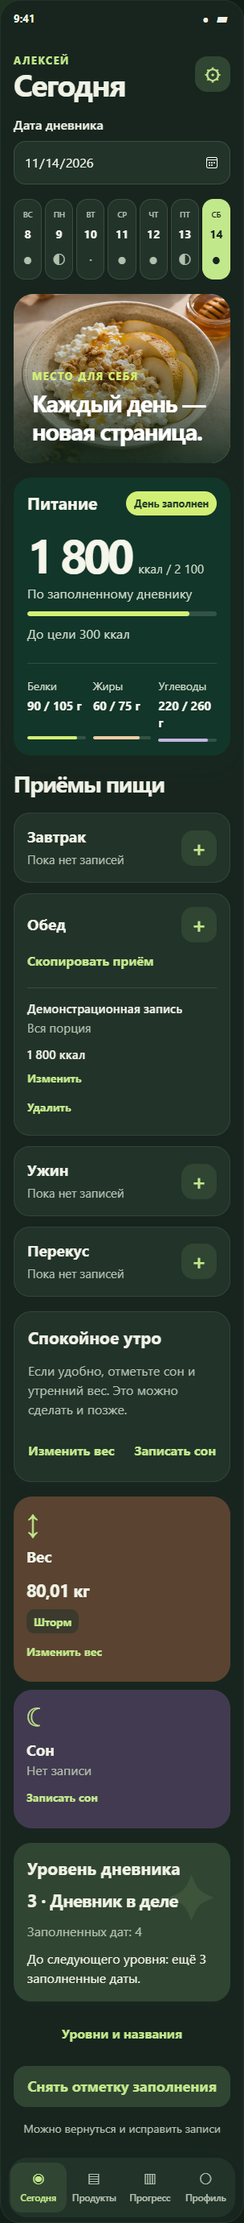
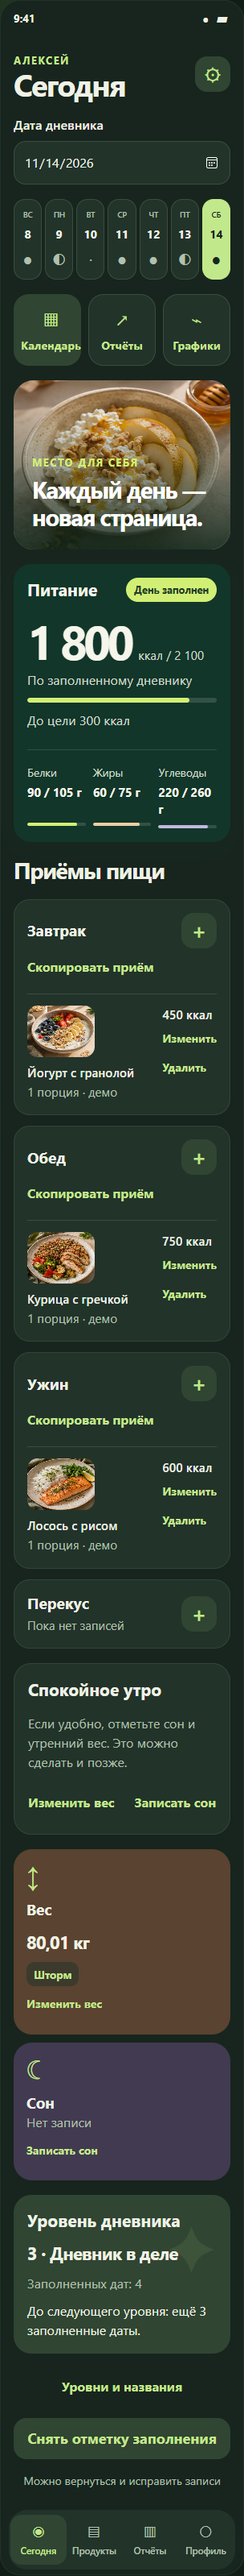
design: expand demo food library and meal photography

diff --git a/docs/prototype/index.html b/docs/prototype/index.html
@@ -107,7 +107,7 @@ function render(){
  if(state.screen==='weight')html=weightForm();
  if(state.screen==='sleep')html=sleepForm();
  if(state.screen==='search')html=searchView();
- if(state.screen==='portion'){const p=selected();html=`<div class="screen">${header('search','Порция')}${context()}<div class="portion-title"><div class="food-icon" aria-hidden="true">${p.icon}</div><h2>${esc(p.name)}</h2><p class="muted small">${fmt(p.values[0])} ккал на ${p.base} ${esc(p.unit)}</p></div><div class="quantity-row">${field('quantity','Сколько съели',state.quantity,'inputmode="decimal" autocomplete="off"')}<span class="quantity-unit">${esc(p.unit)}</span></div><p class="error" id="portion-error" aria-live="polite"></p><div class="card soft"><p class="small muted" style="margin-bottom:16px">В вашей порции</p><div id="portion-values">${portionNutrition()}</div></div><div class="spacer"></div><button class="button full" data-action="save-portion" id="portion-save" ${quantityValid()?'':'disabled'}>Добавить в дневник</button></div>`;}
+ if(state.screen==='portion'){const p=selected();html=`<div class="screen">${header('search','Порция')}${context()}<div class="portion-title">${Number.isInteger(p.photo)?foodPhoto(p.photo,'food-icon','Фото-иллюстрация еды'):`<div class="food-icon" aria-hidden="true">${p.icon}</div>`}<h2>${esc(p.name)}</h2><p class="muted small">${fmt(p.values[0])} ккал на ${p.base} ${esc(p.unit)}</p></div><div class="quantity-row">${field('quantity','Сколько съели',state.quantity,'inputmode="decimal" autocomplete="off"')}<span class="quantity-unit">${esc(p.unit)}</span></div><p class="error" id="portion-error" aria-live="polite"></p><div class="card soft"><p class="small muted" style="margin-bottom:16px">В вашей порции</p><div id="portion-values">${portionNutrition()}</div></div><div class="spacer"></div><button class="button full" data-action="save-portion" id="portion-save" ${quantityValid()?'':'disabled'}>Добавить в дневник</button></div>`;}
  if(state.screen==='quick'||state.screen==='new'){const isNew=state.screen==='new',prefix=isNew?'new':'quick';html=`<div class="screen">${header('cancel-food',isNew?'Новый продукт':'Быстрый ввод',isNew?'Перенесите значения с упаковки.':'Укажите КБЖУ всей съеденной порции.')}${context()}${field(`${prefix}-name`,isNew?'Название':'Название, необязательно',isNew?state.newName:state.quickName,'autocomplete="off" maxlength="80"')}${isNew?`<label class="field" for="new-unit">Пищевая ценность<select id="new-unit"><option value="г" ${state.newUnit==='г'?'selected':''}>На 100 г</option><option value="мл" ${state.newUnit==='мл'?'selected':''}>На 100 мл</option><option value="шт." ${state.newUnit==='шт.'?'selected':''}>На 1 штуку</option></select></label>`:''}${nutrientFields(prefix,isNew?state.newValues:state.quick)}<p class="small muted">Заполните все четыре значения. Неизвестное значение не равно нулю.</p><p class="error" id="food-error" aria-live="polite"></p><div class="spacer"></div><button class="button full" id="food-save" data-action="${isNew?'save-product':'save-quick'}" ${foodValid()?'':'disabled'}>${isNew?'Сохранить продукт':'Добавить в дневник'}</button>${isNew?'<p class="footer-note">Затем можно выбрать порцию для дневника</p>':''}</div>`;}
  if(['account','profile-edit','meal-settings'].includes(state.screen))html=settingsView();
  if(['library','catalog-card','catalog-edit'].includes(state.screen))html=catalogView();
@@ -335,7 +335,9 @@ function loadFullExample(){
  loadProgressExample();state.name='Алексей';state.direction='Поддержание';state.profileValues=['30','175','80'];state.products[0].favorite=true;
  const curd={id:state.nextId++,kind:'product',name:'Творог — демо',unit:'г',base:100,values:[80,5,2,12],icon:'◒'};state.products.push(curd);
  const ingredients=[{sourceId:1,snapshot:productSnapshot(state.products[0]),quantity:200},{sourceId:curd.id,snapshot:productSnapshot(curd),quantity:100}];
- const recipe={id:state.nextId++,kind:'recipe',name:'Запеканка — демо',unit:'г',base:100,values:[152,10,4,19.2],favorite:true,icon:'♧',recipe:{yield:250,ingredients}};state.products.push(recipe);state.days['2026-11-07']={complete:false,entries:[state.products[0],recipe].map((product,i)=>{const quantity=i?50:80;return {id:state.nextId++,kind:'portion',sourceId:product.id,name:product.name,amount:fmt(quantity)+' '+product.unit,meal:0,quantity,snapshot:productSnapshot(product),values:portionValues(productSnapshot(product),quantity)};})};state.recents=[recipe.id,1];go('home');
+ const recipe={id:state.nextId++,kind:'recipe',name:'Запеканка — демо',unit:'г',base:100,values:[152,10,4,19.2],favorite:true,icon:'♧',recipe:{yield:250,ingredients}};state.products.push(recipe);state.days['2026-11-07']={complete:false,entries:[state.products[0],recipe].map((product,i)=>{const quantity=i?50:80;return {id:state.nextId++,kind:'portion',sourceId:product.id,name:product.name,amount:fmt(quantity)+' '+product.unit,meal:0,quantity,snapshot:productSnapshot(product),values:portionValues(productSnapshot(product),quantity)};})};state.recents=[recipe.id,1];
+ state.days[TODAY].entries=[['Йогурт с гранолой',0,[450,25,15,55]],['Курица с гречкой',1,[750,40,25,90]],['Лосось с рисом',2,[600,25,20,75]]].map(([name,meal,values])=>({id:state.nextId++,kind:'portion',name,meal,quantity:1,amount:'1 порция · демо',values:[...values],snapshot:{name,base:1,unit:'порция',values:[...values],photo:meal}}));
+ go('home');
 }
 function dayPrompt(){
  if(state.date!==TODAY)return '';
@@ -374,7 +376,7 @@ function targetAction(a,b){
  return false;
 }
 
-function searchView(){return `<div class="screen">${header(state.entryReplacement?'entry-replace-cancel':'home',state.entryReplacement?'Заменить продукт':'Добавить еду')}${context()}${state.entryReplacement?'<p class="small muted">Новая база сначала появится в черновике. История изменится после сохранения.</p>':`<label class="field">Приём пищи<select id="meal">${mealOptions(state.meal)}</select></label>`}<label class="field">Поиск<input id="search" value="${esc(state.search)}" placeholder="Найти свой продукт"></label>${catalogTabs()}<div class="product-list" id="results">${productResults()}</div>${state.entryReplacement?'':`<div class="stack"><button class="button secondary" data-action="new">Создать продукт</button><button class="button secondary" data-action="recipe-new">Создать рецепт</button><button class="button plain" data-action="quick">Быстрый ввод КБЖУ</button></div>`}</div>`;}
+function searchView(){return `<div class="screen">${header(state.entryReplacement?'entry-replace-cancel':'home',state.entryReplacement?'Заменить продукт':'Добавить еду')}${context()}${state.entryReplacement?'<p class="small muted">Новая база сначала появится в черновике. История изменится после сохранения.</p>':`<label class="field">Приём пищи<select id="meal">${mealOptions(state.meal)}</select></label>`}<label class="field">Поиск<input id="search" value="${esc(state.search)}" placeholder="Найти свой продукт"></label>${catalogTabs()}${foodCategories()}<p class="small muted">Демо-каталог · условные значения для просмотра. Фото — иллюстрации; для своего продукта сверяйте упаковку.</p><div class="product-list" id="results">${productResults()}</div>${state.entryReplacement?'':`<div class="stack"><button class="button secondary" data-action="new">Создать продукт</button><button class="button secondary" data-action="recipe-new">Создать рецепт</button><button class="button plain" data-action="quick">Быстрый ввод КБЖУ</button></div>`}</div>`;}
 function entryValues(d=state.entryDraft){return d.kind==='portion'?portionValues(d.snapshot,num(d.quantity)):valid(d.raw)?values(d.raw):null;}
 function entryView(){
  const d=state.entryDraft,archived=state.archivedMeals.includes(d.meal);
@@ -477,7 +479,7 @@ function recipeAction(action,button){
  return false;
 }
 
-function productSnapshot(product){return structuredClone({name:product.name,base:product.base,unit:product.unit,values:product.values});}
+function productSnapshot(product){return structuredClone({name:product.name,base:product.base,unit:product.unit,values:product.values,photo:product.photo??null});}
 function portionValues(snapshot,quantity){
  if(!snapshot||!Number.isFinite(quantity)||quantity<=0||!Number.isFinite(snapshot.base)||snapshot.base<=0)return null;
  const result=snapshot.values.map(v=>v*(quantity/snapshot.base));return result.every(v=>Number.isFinite(v)&&v>=0)?result:null;
@@ -485,11 +487,13 @@ function portionValues(snapshot,quantity){
 function catalogTabs(){return `<div class="progress-tabs" role="group" aria-label="Фильтр справочника">${[['all','Все'],['favorite','Избранное'],['recent','Недавние'],['recipes','Рецепты']].map(([id,label])=>`<button class="button ${state.catalogFilter===id?'':'secondary'}" data-action="catalog-filter" data-value="${id}" aria-pressed="${state.catalogFilter===id}">${label}</button>`).join('')}</div>`;}
 function catalogResults(){
  let list=state.products.filter(p=>p.name.toLocaleLowerCase('ru').includes(state.search.toLocaleLowerCase('ru')));
+ if(state.foodCategory&&state.foodCategory!=='Все категории')list=list.filter(p=>(p.category||'Свои')===state.foodCategory);
  if(state.catalogFilter==='favorite')list=list.filter(p=>p.favorite);
  if(state.catalogFilter==='recipes')list=list.filter(p=>p.kind==='recipe');
  if(state.catalogFilter==='recent')list=state.recents.map(id=>list.find(p=>p.id===id)).filter(Boolean);
  if(!list.length)return '<p class="empty-state small muted">Здесь пока пусто. Измените поиск или фильтр, создайте свой продукт.</p>';
- return list.map(p=>`<div class="catalog-row"><button class="product" data-action="${state.screen==='library'?'catalog-open':'select'}" data-id="${p.id}"><span class="food-icon" aria-hidden="true">${p.kind==='recipe'?'♧':p.icon}</span><span><strong>${esc(p.name)}</strong><small>${fmt(p.values[0])} ккал · на ${p.base} ${esc(p.unit)}${p.kind==='recipe'?' · Рецепт':''}</small></span><span aria-hidden="true">›</span></button><button class="link" data-action="catalog-favorite" data-id="${p.id}" aria-pressed="${!!p.favorite}" aria-label="Избранное: ${esc(p.name)}">${p.favorite?'★ В избранном':'☆ В избранное'}</button></div>`).join('');
+ const limit=state.catalogLimit||12;
+ return '<p class="small muted">Найдено: '+list.length+'</p>'+list.slice(0,limit).map(p=>`<div class="catalog-row"><button class="product" data-action="${state.screen==='library'?'catalog-open':'select'}" data-id="${p.id}">${Number.isInteger(p.photo)?foodPhoto(p.photo,'food-icon','Фото-иллюстрация категории '+(p.category||'еда')):`<span class="food-icon" aria-hidden="true">${p.kind==='recipe'?'♧':p.icon}</span>`}<span class="grow"><strong>${esc(p.name)}</strong><small>${fmt(p.values[0])} ккал · на ${p.base} ${esc(p.unit)}${p.kind==='recipe'?' · Рецепт':''}</small></span><span aria-hidden="true">›</span></button><button class="link" data-action="catalog-favorite" data-id="${p.id}" aria-pressed="${!!p.favorite}" aria-label="Избранное: ${esc(p.name)}">${p.favorite?'★ В избранном':'☆ В избранное'}</button></div>`).join('')+(list.length>limit?'<button class="button secondary full" data-action="catalog-more">Показать ещё · '+(list.length-limit)+'</button>':'');
 }
 function catalogError(){
  const d=state.catalogDraft;
@@ -504,10 +508,10 @@ function openCatalogEditor(id=null){
  state.catalogInitial=JSON.stringify(state.catalogDraft);go('catalog-edit');
 }
 function catalogView(){
- if(state.screen==='library')return `<div class="screen">${header('home','Продукты')}<label class="field">Поиск<input id="search" value="${esc(state.search)}" placeholder="Название продукта или блюда"></label>${catalogTabs()}<div id="results" class="product-list">${catalogResults()}</div><button class="button" data-action="catalog-new">Создать продукт</button><button class="button secondary" data-action="recipe-new">Создать рецепт</button><p class="small muted">Свой справочник. Создание продукта не добавляет еду в дневник.</p></div>`;
+ if(state.screen==='library')return `<div class="screen">${header('home','Продукты')}<label class="field">Поиск<input id="search" value="${esc(state.search)}" placeholder="Название продукта или блюда"></label>${catalogTabs()}${foodCategories()}<p class="small muted">Демо-каталог · условные значения для просмотра. Фото — иллюстрации; для своего продукта сверяйте упаковку.</p><div id="results" class="product-list">${catalogResults()}</div><button class="button" data-action="catalog-new">Создать продукт</button><button class="button secondary" data-action="recipe-new">Создать рецепт</button><p class="small muted">Свой справочник. Создание продукта не добавляет еду в дневник.</p></div>`;
  if(state.screen==='catalog-card'){
   const p=state.products.find(p=>p.id===state.catalogId);
-  return `<div class="screen">${header('library',esc(p.name))}<p class="small muted">На ${p.base} ${esc(p.unit)}</p>${nutrition(p.values)}${p.kind==='recipe'?recipeDescription(p):''}<button class="button" data-action="catalog-use" data-id="${p.id}">Добавить порцию в дневник</button><p class="small muted">${dateLabel(state.date)} · ${esc(meals[state.meal])}. Приём можно изменить на экране выбора еды.</p><button class="button secondary" data-action="catalog-edit" data-id="${p.id}">${p.kind==='recipe'?'Изменить рецепт':'Изменить продукт'}</button><button class="button secondary" data-action="catalog-favorite" data-id="${p.id}" aria-pressed="${!!p.favorite}">${p.favorite?'Убрать из избранного':'В избранное'}</button><button class="button danger" data-action="catalog-delete" data-id="${p.id}">${p.kind==='recipe'?'Удалить рецепт':'Удалить продукт'}</button><p class="small muted">Изменение и удаление не меняют уже записанные порции.</p></div>`;
+  return `<div class="screen">${header('library',esc(p.name))}${Number.isInteger(p.photo)?foodPhoto(p.photo,'catalog-cover','Фото-иллюстрация, не фотография конкретного продукта'):''}<p class="small muted">На ${p.base} ${esc(p.unit)}</p>${nutrition(p.values)}${p.kind==='recipe'?recipeDescription(p):''}<button class="button" data-action="catalog-use" data-id="${p.id}">Добавить порцию в дневник</button><p class="small muted">${dateLabel(state.date)} · ${esc(meals[state.meal])}. Приём можно изменить на экране выбора еды.</p><button class="button secondary" data-action="catalog-edit" data-id="${p.id}">${p.kind==='recipe'?'Изменить рецепт':'Изменить продукт'}</button><button class="button secondary" data-action="catalog-favorite" data-id="${p.id}" aria-pressed="${!!p.favorite}">${p.favorite?'Убрать из избранного':'В избранное'}</button><button class="button danger" data-action="catalog-delete" data-id="${p.id}">${p.kind==='recipe'?'Удалить рецепт':'Удалить продукт'}</button><p class="small muted">Изменение и удаление не меняют уже записанные порции.</p></div>`;
  }
  const d=state.catalogDraft;
  return `<div class="screen">${header('catalog-cancel',d.id===null?'Новый продукт':'Изменить продукт')}${field('catalog-name','Название',d.name,'maxlength="80"')}<label class="field">База пищевой ценности<select id="catalog-unit"><option value="г" ${d.unit==='г'?'selected':''}>На 100 г</option><option value="мл" ${d.unit==='мл'?'selected':''}>На 100 мл</option><option value="portion" ${d.unit==='portion'?'selected':''}>На одну именованную порцию</option></select></label><div id="catalog-portion-wrap" ${d.unit==='portion'?'':'class="hidden"'}>${field('catalog-portion','Название одной порции',d.portion,'maxlength="30" placeholder="Например, штука"')}</div>${nutrientFields('catalog',d.values)}<p class="error" id="catalog-error" role="alert"></p><p class="small muted">Неизвестное значение не равно нулю. Изменения применяются к новым порциям; история сохраняется.</p><button class="button" id="catalog-save" data-action="catalog-save" ${catalogError()?'disabled':''}>Сохранить продукт</button></div>`;
@@ -518,8 +522,8 @@ function catalogInput(id,value){
  document.getElementById('catalog-portion-wrap').classList.toggle('hidden',d.unit!=='portion');document.getElementById('catalog-error').textContent=catalogError();document.getElementById('catalog-save').disabled=!!catalogError();return true;
 }
 function catalogAction(action,button){
- if(action==='library'){state.entryReplacement=false;state.search='';state.catalogFilter='all';go('library');return true;}
- if(action==='catalog-filter'){state.catalogFilter=button.dataset.value;render();return true;}
+ if(action==='library'){state.entryReplacement=false;state.search='';state.catalogFilter='all';state.foodCategory='Все категории';state.catalogLimit=12;go('library');return true;}
+ if(action==='catalog-filter'){state.catalogLimit=12;state.catalogFilter=button.dataset.value;render();return true;}
  if(action==='catalog-open'){state.catalogId=Number(button.dataset.id);go('catalog-card');return true;}
  if(action==='catalog-favorite'){const p=state.products.find(p=>p.id===Number(button.dataset.id));p.favorite=!p.favorite;render();return true;}
  if(action==='new'||action==='catalog-new'){state.catalogReturn=state.screen==='search'?'search':'library';openCatalogEditor();return true;}
@@ -529,7 +533,7 @@ function catalogAction(action,button){
  }
  if(action==='catalog-save'&&state.screen==='catalog-edit'){
   if(catalogError())return true;const d=state.catalogDraft,old=state.products.find(p=>p.id===d.id);
-  const p={id:d.id??state.nextId++,kind:'product',name:d.name.trim(),unit:d.unit==='portion'?d.portion.trim():d.unit,base:d.unit==='portion'?1:100,values:values(d.values),favorite:old?.favorite||false,icon:'◒'};
+  const p={id:d.id??state.nextId++,kind:'product',name:d.name.trim(),unit:d.unit==='portion'?d.portion.trim():d.unit,base:d.unit==='portion'?1:100,values:values(d.values),favorite:old?.favorite||false,category:old?.category||'Свои',photo:old?.photo??null,icon:'◒'};
   if(old)state.products[state.products.indexOf(old)]=p;else state.products.push(p);
   state.catalogId=p.id;if(state.catalogReturn==='search'){state.selected=p.id;state.quantity=String(p.base);go('portion');}else go('catalog-card');return true;
  }
@@ -929,7 +933,7 @@ function foodValid(){return state.screen==='new'?state.newName.trim().length>0&&
 function productResults(){return catalogResults();}
 function nutrition(v){return `<div class="nutrition">${['ккал','белки, г','жиры, г','углев., г'].map((n,i)=>`<div><strong>${v?fmt(v[i]):'—'}</strong><small>${n}</small></div>`).join('')}</div>`;}
 function portionNutrition(){const p=selected();return nutrition(p?portionValues(productSnapshot(p),num(state.quantity)):null);}
-function home(){normalizeActiveMeal();const d=day(),t=total(),g=target(),has=d.entries.length>0||d.complete,status=d.complete?'День заполнен':d.entries.length?'Заполнен частично':'Нет записей';return `<div class="screen home"><div class="row"><div><span class="eyebrow">${state.name?esc(state.name):'Ваш дневник'}</span><h1 tabindex="-1">${state.date===TODAY?'Сегодня':state.date===YESTERDAY?'Вчера':'Дневник'}</h1></div><button class="icon-button" data-action="edit-goal" aria-label="Настроить цель">⚙</button></div><label class="field" for="diary-date">Дата дневника<input type="date" id="diary-date" value="${state.date}" min="${MIN_DATE}" max="${TODAY}" aria-describedby="diary-date-error"></label><p class="error" id="diary-date-error" role="alert"></p>${dayStrip()}${homeShortcuts()}${homeHero()}${state.message?`<div class="toast" role="status">${esc(state.message)}</div>`:''}<section class="card"><div class="title-row"><h3>Питание</h3><span class="pill ${d.complete?'complete':''}">${status}</span></div><div class="calories"><strong>${has?fmt(t[0]):'—'}</strong><span>ккал${g?' / '+fmt(g.values[0]):''}</span></div><p class="small muted">${!has?'Добавьте первую запись':d.complete?'По заполненному дневнику':'По внесённым записям'}</p>${g&&has?`<div class="track" role="progressbar" aria-label="Калории относительно цели" aria-valuemin="0" aria-valuemax="100" aria-valuenow="${Math.min(100,Math.round(t[0]/g.values[0]*100))}"><div class="fill" style="width:${Math.min(100,t[0]/g.values[0]*100)}%"></div></div><p class="small muted" style="margin-top:10px">${t[0]>g.values[0]?'Выше цели на '+fmt(t[0]-g.values[0]):'До цели '+fmt(g.values[0]-t[0])} ккал</p>`:''}<div class="macros">${['Белки','Жиры','Углеводы'].map((n,i)=>`<div class="macro"><div class="caption">${n}</div><div class="value">${has?fmt(t[i+1]):'—'}${g?' / '+fmt(g.values[i+1]):''} г</div>${g&&has&&g.values[i+1]>0?`<div class="track"><div class="fill" style="width:${Math.min(100,t[i+1]/g.values[i+1]*100)}%"></div></div>`:''}</div>`).join('')}</div>${!g?'<div class="row wrap" style="margin-top:16px"><span class="small muted">Цель не задана</span><button class="link" data-action="edit-goal">Настроить цель</button></div>':''}</section><section><div class="row" style="margin-bottom:20px"><h2>Приёмы пищи</h2></div>${state.mealOrder.filter(i=>!state.archivedMeals.includes(i)||d.entries.some(e=>e.meal===i)).map(i=>`<div class="meal"><div class="row"><div><h3 class="meal-title">${esc(meals[i])}</h3>${state.archivedMeals.includes(i)?'<p class="small muted">В архиве</p>':''}${!d.entries.some(e=>e.meal===i)?'<p class="empty">Пока нет записей</p>':''}</div>${state.archivedMeals.includes(i)?'':`<button class="icon-button" data-action="add" data-meal="${i}" aria-label="Добавить: ${esc(meals[i])}">＋</button>`}</div>${d.entries.some(e=>e.meal===i)?`<button class="link" data-action="copy-meal" data-meal="${i}">Скопировать приём</button>`:''}${d.entries.filter(e=>e.meal===i).map(e=>`<div class="meal-item"><div class="entry-name">${esc(e.name)}<div class="muted">${esc(e.amount)}</div></div><div style="text-align:right;flex-shrink:0">${fmt(e.values[0])} ккал<br><button class="link" data-action="edit-entry" data-id="${e.id}" aria-label="Изменить: ${esc(e.name)}">Изменить</button><br><button class="link" data-action="delete" data-id="${e.id}" aria-label="Удалить: ${esc(e.name)}">Удалить</button></div></div>`).join('')}</div>`).join('')}</section>${dayPrompt()}<div class="measurements"><section class="card"><div class="measurement-icon" aria-hidden="true">↕</div><h3>Вес</h3>${d.weightCents==null?'<p class="small muted">Нет записи</p>':`<p class="measurement-value">${weightText(d.weightCents)} кг</p>${measurementBadge('weight',d.weightCents)}`}<button class="link" data-action="weight">${d.weightCents==null?'Записать вес':'Изменить вес'}</button></section><section class="card"><div class="measurement-icon" aria-hidden="true">☾</div><h3>Сон</h3>${d.sleepMinutes==null?'<p class="small muted">Нет записи</p>':`<p class="measurement-value">${sleepText(d.sleepMinutes)}</p>${measurementBadge('sleep',d.sleepMinutes)}${d.sleepMinutes===0?'<p class="small muted">Отсутствие сна подтверждено</p>':''}`}<button class="link" data-action="sleep">${d.sleepMinutes==null?'Записать сон':'Изменить сон'}</button></section></div>${diaryLevelCard()}<button class="link" data-action="game-settings">Уровни и названия</button><div class="stack"><button class="button ${d.complete?'secondary':''} full" data-action="complete">${d.complete?'Снять отметку заполнения':'День заполнен'}</button><p class="footer-note">${d.complete?'Можно вернуться и исправить записи':'Отметьте, когда все приёмы пищи внесены'}</p></div><nav class="bottom-nav" aria-label="Разделы"><button class="nav-button active" data-action="home" aria-current="page"><b aria-hidden="true">◉</b>Сегодня</button><button class="nav-button" data-action="library"><b aria-hidden="true">▤</b>Продукты</button><button class="nav-button" data-action="report"><b aria-hidden="true">▥</b>Отчёты</button><button class="nav-button" data-action="account"><b aria-hidden="true">○</b>Профиль</button></nav></div>`;}
+function home(){normalizeActiveMeal();const d=day(),t=total(),g=target(),has=d.entries.length>0||d.complete,status=d.complete?'День заполнен':d.entries.length?'Заполнен частично':'Нет записей';return `<div class="screen home"><div class="row"><div><span class="eyebrow">${state.name?esc(state.name):'Ваш дневник'}</span><h1 tabindex="-1">${state.date===TODAY?'Сегодня':state.date===YESTERDAY?'Вчера':'Дневник'}</h1></div><button class="icon-button" data-action="edit-goal" aria-label="Настроить цель">⚙</button></div><label class="field" for="diary-date">Дата дневника<input type="date" id="diary-date" value="${state.date}" min="${MIN_DATE}" max="${TODAY}" aria-describedby="diary-date-error"></label><p class="error" id="diary-date-error" role="alert"></p>${dayStrip()}${homeShortcuts()}${homeHero()}${state.message?`<div class="toast" role="status">${esc(state.message)}</div>`:''}<section class="card"><div class="title-row"><h3>Питание</h3><span class="pill ${d.complete?'complete':''}">${status}</span></div><div class="calories"><strong>${has?fmt(t[0]):'—'}</strong><span>ккал${g?' / '+fmt(g.values[0]):''}</span></div><p class="small muted">${!has?'Добавьте первую запись':d.complete?'По заполненному дневнику':'По внесённым записям'}</p>${g&&has?`<div class="track" role="progressbar" aria-label="Калории относительно цели" aria-valuemin="0" aria-valuemax="100" aria-valuenow="${Math.min(100,Math.round(t[0]/g.values[0]*100))}"><div class="fill" style="width:${Math.min(100,t[0]/g.values[0]*100)}%"></div></div><p class="small muted" style="margin-top:10px">${t[0]>g.values[0]?'Выше цели на '+fmt(t[0]-g.values[0]):'До цели '+fmt(g.values[0]-t[0])} ккал</p>`:''}<div class="macros">${['Белки','Жиры','Углеводы'].map((n,i)=>`<div class="macro"><div class="caption">${n}</div><div class="value">${has?fmt(t[i+1]):'—'}${g?' / '+fmt(g.values[i+1]):''} г</div>${g&&has&&g.values[i+1]>0?`<div class="track"><div class="fill" style="width:${Math.min(100,t[i+1]/g.values[i+1]*100)}%"></div></div>`:''}</div>`).join('')}</div>${!g?'<div class="row wrap" style="margin-top:16px"><span class="small muted">Цель не задана</span><button class="link" data-action="edit-goal">Настроить цель</button></div>':''}</section><section><div class="row" style="margin-bottom:20px"><h2>Приёмы пищи</h2></div>${state.mealOrder.filter(i=>!state.archivedMeals.includes(i)||d.entries.some(e=>e.meal===i)).map(i=>`<div class="meal"><div class="row"><div><h3 class="meal-title">${esc(meals[i])}</h3>${state.archivedMeals.includes(i)?'<p class="small muted">В архиве</p>':''}${!d.entries.some(e=>e.meal===i)?'<p class="empty">Пока нет записей</p>':''}</div>${state.archivedMeals.includes(i)?'':`<button class="icon-button" data-action="add" data-meal="${i}" aria-label="Добавить: ${esc(meals[i])}">＋</button>`}</div>${d.entries.some(e=>e.meal===i)?`<button class="link" data-action="copy-meal" data-meal="${i}">Скопировать приём</button>`:''}${d.entries.filter(e=>e.meal===i).map(e=>`<div class="meal-item"><div class="entry-name">${Number.isInteger(e.snapshot?.photo)?foodPhoto(e.snapshot.photo,'entry-thumbnail','Фото-иллюстрация еды'):''}${esc(e.name)}<div class="muted">${esc(e.amount)}</div></div><div style="text-align:right;flex-shrink:0">${fmt(e.values[0])} ккал<br><button class="link" data-action="edit-entry" data-id="${e.id}" aria-label="Изменить: ${esc(e.name)}">Изменить</button><br><button class="link" data-action="delete" data-id="${e.id}" aria-label="Удалить: ${esc(e.name)}">Удалить</button></div></div>`).join('')}</div>`).join('')}</section>${dayPrompt()}<div class="measurements"><section class="card"><div class="measurement-icon" aria-hidden="true">↕</div><h3>Вес</h3>${d.weightCents==null?'<p class="small muted">Нет записи</p>':`<p class="measurement-value">${weightText(d.weightCents)} кг</p>${measurementBadge('weight',d.weightCents)}`}<button class="link" data-action="weight">${d.weightCents==null?'Записать вес':'Изменить вес'}</button></section><section class="card"><div class="measurement-icon" aria-hidden="true">☾</div><h3>Сон</h3>${d.sleepMinutes==null?'<p class="small muted">Нет записи</p>':`<p class="measurement-value">${sleepText(d.sleepMinutes)}</p>${measurementBadge('sleep',d.sleepMinutes)}${d.sleepMinutes===0?'<p class="small muted">Отсутствие сна подтверждено</p>':''}`}<button class="link" data-action="sleep">${d.sleepMinutes==null?'Записать сон':'Изменить сон'}</button></section></div>${diaryLevelCard()}<button class="link" data-action="game-settings">Уровни и названия</button><div class="stack"><button class="button ${d.complete?'secondary':''} full" data-action="complete">${d.complete?'Снять отметку заполнения':'День заполнен'}</button><p class="footer-note">${d.complete?'Можно вернуться и исправить записи':'Отметьте, когда все приёмы пищи внесены'}</p></div><nav class="bottom-nav" aria-label="Разделы"><button class="nav-button active" data-action="home" aria-current="page"><b aria-hidden="true">◉</b>Сегодня</button><button class="nav-button" data-action="library"><b aria-hidden="true">▤</b>Продукты</button><button class="nav-button" data-action="report"><b aria-hidden="true">▥</b>Отчёты</button><button class="nav-button" data-action="account"><b aria-hidden="true">○</b>Профиль</button></nav></div>`;}
 function addEntry(name,amount,v,meta={kind:'quick'}){day().entries.push({id:state.nextId++,name,amount,values:[...v],meal:state.meal,...structuredClone(meta)});if(meta.sourceId)state.recents=[meta.sourceId,...state.recents.filter(id=>id!==meta.sourceId)].slice(0,20);state.screen='home';state.message=day().complete?'Запись добавлена. День остаётся заполненным.':'Запись добавлена';render();}
 document.addEventListener('input',event=>{
  const id=event.target.id,v=event.target.value;
@@ -944,7 +948,7 @@ document.addEventListener('input',event=>{
  if(id==='name')state.name=v;
  if(id==='goal-date'){state.goalDate=v;state.goalDraftDirty=true;document.getElementById('goal-save').disabled=!goalValid();document.getElementById('goal-error').textContent=goalValid()?'':goalError();}
  if(id==='weight-value'){state.weightDraft=v;const error=weightError();document.getElementById('weight-save').disabled=Boolean(error);document.getElementById('weight-error').textContent=error;event.target.setAttribute('aria-invalid',String(Boolean(error)));}
- if(id==='search'){state.search=v;document.getElementById('results').innerHTML=productResults();}
+ if(id==='search'){state.catalogLimit=12;state.search=v;document.getElementById('results').innerHTML=productResults();}
  if(id.startsWith('goal-')&&/^goal-\d$/.test(id)){state.goalDraft[Number(id.slice(-1))]=v;state.goalDraftDirty=true;document.getElementById('goal-save').disabled=!goalValid();document.getElementById('goal-error').textContent=goalValid()?'':goalError();}
  if(id==='quantity'){state.quantity=v;document.getElementById('portion-values').innerHTML=portionNutrition();document.getElementById('portion-save').disabled=!quantityValid();document.getElementById('portion-error').textContent=quantityValid()?'':'Введите количество больше нуля; итог должен помещаться в числовой диапазон макета.';}
  if(id==='sleep-hours'||id==='sleep-minutes'){
@@ -969,6 +973,7 @@ document.addEventListener('click',e=>{
  if(a==='dialog-close'){closeModal();return;}if(a==='dialog-yes'){const fn=dialogCallback;dialogCallback=null;closeModal();if(fn)fn();return;}
  if(a==='progress-example'){modal('Заменить демонстрацию?','Текущие вымышленные записи будут заменены примером прогресса за 8–14 ноября.','Показать пример прогресса',loadProgressExample);return;}
  if(a==='restart'||a==='example'){modal('Заменить демонстрацию?','Текущие вымышленные записи будут сброшены. Это не затрагивает какие-либо реальные данные.',a==='restart'?'Начать сначала':'Показать пример',()=>reset(a==='example'));return;}
+ if(foodCategoryAction(a,b))return;
  if(insightsAction(a,b))return;
  if(richAction(a,b))return;
  if(reminderAction(a,b))return;
@@ -1033,6 +1038,7 @@ document.addEventListener('click',e=>{
 });
 </script>
 <script src="rich.js"></script>
+<script src="library-data.js"></script>
 <script src="insights.js"></script>
 <script>reset();</script>
 </body>

diff --git a/docs/prototype/library-data.js b/docs/prototype/library-data.js
@@ -1,0 +1,17 @@
+/* Fictional demo values for interface exploration, not a verified food database. */
+const demoFoodGroups=[
+ ['Завтраки',0,[['Омлет с зеленью',154,10,11,3],['Сырники',180,12,7,18],['Овсянка с ягодами',115,4,3,18],['Греческий йогурт',85,8,3,6],['Тост с авокадо',210,6,12,22],['Гранола',410,10,16,55],['Блины с творогом',215,11,8,26],['Рисовая каша',110,3,3,18]]],
+ ['Основные блюда',1,[['Курица с гречкой',155,14,5,14],['Плов',205,9,8,25],['Бешбармак',220,15,10,18],['Манты',210,11,10,20],['Индейка с булгуром',145,14,4,15],['Тушёная говядина',190,20,10,5],['Овощное рагу',85,3,4,11],['Паста с томатами',155,5,4,25]]],
+ ['Рыба и белок',2,[['Лосось с рисом',175,13,7,14],['Треска запечённая',100,21,1,1],['Тунец',120,24,2,0],['Куриная грудка',160,29,4,1],['Яйцо',145,12,10,1],['Тофу',95,10,5,2],['Чечевица варёная',115,9,1,18],['Фасоль',120,8,1,20]]],
+ ['Овощи и фрукты',3,[['Овощной салат',70,2,4,7],['Огурец',15,1,0,3],['Помидор',20,1,0,4],['Брокколи',35,3,0,5],['Яблоко',50,0,0,12],['Банан',90,1,0,21],['Авокадо',160,2,14,8],['Ягоды',45,1,0,10]]],
+ ['Супы и гарниры',4,[['Тыквенный суп',65,2,3,8],['Борщ',60,3,2,7],['Куриный суп',55,4,2,5],['Чечевичный суп',80,5,2,11],['Гречка',110,4,1,21],['Рис',130,3,0,28],['Картофель запечённый',100,2,2,19],['Киноа',120,4,2,21]]],
+ ['Перекусы и напитки',5,[['Творог с фруктами',130,12,5,10],['Кефир',50,3,2,4],['Ореховая смесь',590,18,52,17],['Шоколад',540,7,33,50],['Баурсак',320,8,14,40],['Кумыс',45,2,2,5],['Латте',55,3,2,6],['Чай',1,0,0,0]]]
+];
+const demoFoodPhotos={'Греческий йогурт':0,'Курица с гречкой':1,'Лосось с рисом':2,'Овощной салат':3,'Тыквенный суп':4,'Творог с фруктами':5,'Плов':6,'Бешбармак':7,'Манты':8,'Омлет с зеленью':9,'Сырники':10,'Баурсак':11};
+demoFoodGroups.forEach(([category,photo,foods],group)=>foods.forEach(([name,...values],i)=>seed.push({id:200+group*10+i,name,kind:'product',unit:['Кефир','Кумыс','Латте','Чай'].includes(name)?'мл':'г',base:100,values,category,photo:demoFoodPhotos[name]??null,icon:['🥣','🥘','🐟','🥗','🍲','◒'][group],note:'Демонстрационные значения, не проверенный справочник'})));
+function foodCategories(){return `<div class="category-chips" role="group" aria-label="Категории еды">${['Все категории',...demoFoodGroups.map(g=>g[0]),'Свои'].map(category=>`<button class="category-chip" data-action="food-category" data-value="${category}" aria-pressed="${(state.foodCategory||'Все категории')===category}">${esc(category)}</button>`).join('')}</div>`;}
+function foodCategoryAction(a,b){
+ if(a==='food-category'){state.foodCategory=b.dataset.value;state.catalogLimit=12;render();return true;}
+ if(a==='catalog-more'){state.catalogLimit=(state.catalogLimit||12)+12;document.getElementById('results').innerHTML=catalogResults();return true;}
+ return false;
+}

diff --git a/docs/prototype/polish.css b/docs/prototype/polish.css
@@ -322,3 +322,19 @@ dialog h2{font-size:1.45em;letter-spacing:-.04em}
   @keyframes diet-image{from{transform:scale(1.045)}to{transform:scale(1)}}
 }
 @media(prefers-reduced-motion:reduce){*,*:before,*:after{animation:none!important;transition:none!important;scroll-behavior:auto!important}}
+
+/* Catalogue navigation and photos. */
+.category-chips{display:flex;flex-wrap:wrap;gap:7px}
+.category-chip{border:1px solid var(--line);border-radius:20px;padding:9px 12px;min-height:40px;background:var(--card);color:var(--ink);font-size:.72em;line-height:1.4}
+.category-chip[aria-pressed=true]{background:var(--green);border-color:var(--green);color:var(--bg)}
+.catalog-cover{width:100%;height:220px;aspect-ratio:1.5}
+.product .grow{min-width:0}.product-list>.button{margin-top:16px}
+
+.entry-thumbnail{width:84px;height:64px;min-height:0;border-radius:13px;margin-bottom:8px}
+
+.photo-tile.tile-6{background-image:url("assets/food-classics.png");background-position:0 0}
+.photo-tile.tile-7{background-image:url("assets/food-classics.png");background-position:50% 0}
+.photo-tile.tile-8{background-image:url("assets/food-classics.png");background-position:100% 0}
+.photo-tile.tile-9{background-image:url("assets/food-classics.png");background-position:0 100%}
+.photo-tile.tile-10{background-image:url("assets/food-classics.png");background-position:50% 100%}
+.photo-tile.tile-11{background-image:url("assets/food-classics.png");background-position:100% 100%}

diff --git a/docs/prototype/rich.js b/docs/prototype/rich.js
@@ -1,6 +1,6 @@
 /* Presentation and small daily interactions for the disposable UX prototype. */
 function foodPhoto(tile=0,className='',label='Фотография еды для оформления'){
- return `<span class="food-photo photo-tile tile-${Number.isInteger(tile)&&tile>=0&&tile<6?tile:0} ${className}" role="img" aria-label="${esc(label)}"></span>`;
+ return `<span class="food-photo photo-tile tile-${Number.isInteger(tile)&&tile>=0&&tile<12?tile:0} ${className}" role="img" aria-label="${esc(label)}"></span>`;
 }
 function welcomePhoto(){return `<div class="hero-photo welcome-photo">${foodPhoto(0,'','Йогурт с ягодами — иллюстрация')}<div class="hero-caption"><span class="pill">Маленькие шаги · большие истории</span></div></div>`;}
 function homeHero(){return `<div class="hero-photo">${foodPhoto((calendarDay(state.date)%6+6)%6,'','Еда — атмосферная иллюстрация')}<div class="hero-caption"><span class="eyebrow">Место для себя</span><h2>Каждый день —<br>новая страница.</h2></div></div>`;}

diff --git a/docs/prototype/assets/README.md b/docs/prototype/assets/README.md
@@ -1,1 +1,8 @@
 # Фотографии прототипа\n\nfood-editorial.png — шесть созданных изображений еды (сетка 3 × 2), встроенный image_gen, 14 ноября 2026. Используются локально через CSS; сетевых запросов нет. Это оформление, а не фотографии пользователя и не источник пищевой ценности.\n\nПроверены композиция и отсутствие текста/логотипов. Исходный файл скопирован в репозиторий, исходник генерации оставлен на месте.\n\n## Промпт\n\nUse case: photorealistic-natural. Create a premium editorial food photography contact sheet, exactly 3 columns by 2 rows of equal rectangular photographs, edge to edge with no gutters, no borders, no text or lettering. Six clearly separate food photographs for a Russian personal nutrition diary prototype. Top row left: colorful yogurt bowl with berries, banana and oats on warm cream table; top middle: grilled chicken with buckwheat and vegetables on ceramic plate; top right: salmon with rice and green herbs. Bottom row left: fresh tomato cucumber avocado salad; bottom middle: warm bowl of pumpkin lentil soup with crusty bread beside; bottom right: cottage cheese, sliced fruit, walnuts and honey. Each tile overhead or angled close-up, appetizing realistic textures, soft natural window light, art directed warm ivory and sage green palette, stylish neutral ceramics and linen, beautiful balanced composition. Exactly six equally sized image areas, no people, no hands, no logos, no labels, no nutrition numbers, no watermark. Landscape canvas, each tile clearly fills its own sixth.\n
+## Дополнительные блюда
+
+food-classics.png — шесть созданных фото-иллюстраций (плов, бешбармак, манты, омлет, сырники, баурсак), встроенный image_gen; создано в сессии 14–15 ноября 2026. Выбраны после визуального просмотра. Сохранены локально, без внешних URL. Для остальных позиций без подходящего фото используется значок, чужое блюдо не подставляется.
+
+Промпт:
+
+Use case: photorealistic-natural. Premium editorial food photography contact sheet, exactly 3 columns by 2 rows of equally sized rectangular photographs, edge to edge, no gutters, no text. Six different realistic food dishes for a personal nutrition diary. Top left: Central Asian plov, golden rice with carrots and chunks of meat, on ceramic plate. Top middle: Kazakh beshbarmak, broad flat boiled noodle sheets with tender cooked sliced meat and onion rings, on a beautiful plate. Top right: steamed Central Asian manti dumplings, correctly folded white dough parcels, on ceramic plate. Bottom left: fluffy folded herb omelette with tomatoes and microgreens. Bottom middle: round golden syrniki cottage cheese pancakes with sour cream and a few berries. Bottom right: Kazakh baursak, small puffy golden fried dough balls in a bowl. Stylish warm ivory tabletops, sage green linen, neutral ceramics, soft natural window light, realistic delicious texture, cohesive professional food photography. Exactly 6 separate images in a regular 3x2 grid; each dish entirely within its equal tile. No hands, no people, no text, no logos, no nutrition numbers.

diff --git a/docs/work-log.md b/docs/work-log.md
@@ -411,3 +411,9 @@
 
 - Календарь/отчёты опубликованы d54e62c, remote SHA подтверждён. При просмотре независимый проверяющий заметил, что слова «светлая/тёмная» не подходят инверсии тёмной темы. Легенда использует «акцентная/приглушённая».
 - Файлы: insights.js, два снимка отчёта, validation.md и журнал. 3/3 целевых проверки PASS, включая экранирование имени продукта текущего периода; HTTP/JS ошибок нет. Diff проверен, исправление публикуется отдельно.
+
+## 2026-11-15 — расширенный каталог и фото блюд
+
+- Исправление легенды опубликовано 45978c3, remote SHA подтверждён. Добавлены 48 демо-позиций в шести категориях, поиск/фильтры и выдача по 12 строк. Данные явно условные; проверенный справочник пищевой ценности не заявляется.
+- Дополнительный фотоатлас создан image_gen и просмотрен: плов, бешбармак, манты, омлет, сырники, баурсак. Всего 12 фото-иллюстраций назначены подходящим блюдам по имени; остальным оставлены значки. Промпты и происхождение в assets/README.md. В полном примере за сегодня три приёма с миниатюрами при прежней сумме1800/90/60/220; отдельный пример прогресса неизменён.
+- Файлы: index.html, rich.js, library-data.js, polish.css, assets, coverage/validation, user-flows, журнал, шесть снимков. Независимые44+9 целевых проверок PASS, история/рецепт/новые ресурсы проверены; снимки просмотрены. Diff/syntax проверены, подготовлено к отдельной публикации.

diff --git a/docs/prototype/validation.md b/docs/prototype/validation.md
@@ -159,3 +159,7 @@ JS-ошибок/HTTP нет. Нет доступных кнопок-заглуш
 Независимые 25 вычислительных и 54 браузерных проверки PASS. Эталоны недели: 79,98 кг N5, сон 5 ч 54 мин N5, питание 1500 ккал N4. Проверены нулевые/частичные/пустые дни, 7/30/90 дней, сравнение, даты и переходы; исправлено сохранение пользовательского конца периода при возврате из графика. 320 px dark/large: без переполнения и обрезки управляющих элементов, JS-ошибок/HTTP нет. Снимки v03-calendar/v03-report и их 320-dark-large варианты просмотрены.
 
 Дополнение v0.3: после просмотра снимков описание тепловой карты заменено на нейтральное к теме. 3/3 целевых проверки PASS: обе темы и экранирование имени текущего частого продукта; снимки отчётов обновлены.
+
+## v0.3 — большой каталог и фотографии блюд
+
+44/44 независимых браузерных проверок PASS: 51 исходная позиция, шесть групп по восемь и три исходных, фильтры, поиск, выдача 12/24/36/51, избранное/недавние/рецепты, FD-005=380/152/76, старые 80 г=120 после правки источника и новые=160. 320 px dark/large без переполнения. После добавления второго фотоатласа и нового полного примера — 9/9 целевых проверок PASS: 3 порции, сумма1800/90/60/220, снимки/копирование/правка и загрузка локальных ресурсов. JS-ошибок, HTTP и failed assets нет. Снимки v03-home/catalog/food и узкие варианты обновлены и просмотрены.

diff --git a/docs/user-flows.md b/docs/user-flows.md
@@ -279,3 +279,7 @@
 ### UX-11A — календарь и обзорный отчёт
 
 Вход с главной и профиля. Календарь листает месяцы, показывает отдельные точки питания/веса/сна и открывает дневник выбранной прошлой даты; будущие даты недоступны. Отчёт использует последние 7/30/90 дней до выбранной даты. Вес и сон имеют независимые N, питание усредняется по заполненным датам. Сравнение с предыдущим периодом описывает разницу без оценки результата. Переход к подробному графику и возврат сохраняют период отчёта. Карта дней и частые продукты открывают обзор без оценки пользы.
+
+### UX-11B — расширенный каталог
+
+Открыть продукты или добавление еды; выбрать категорию, ввести поиск, открыть карточку и порцию. Избранное/недавние/рецепты сочетаются с категорией. Если список пуст, изменить фильтр. Поиск ищет по всему справочнику, выдача открывается порциями по 12 строк. Создание/изменение своего продукта и снимки прошлого сохраняют прежнее поведение.

diff --git a/docs/prototype/coverage.md b/docs/prototype/coverage.md
@@ -31,3 +31,7 @@
 ## Дополнение v0.3: календарь и отчёты
 
 Подключены календарь месяца с выбором даты, обзор за 7/30/90 дней, полнота каждого показателя, сравнение периодов, мини-графики, карта ведения и частые продукты. Подробные графики и исторические цели сохранены. Средние и пропуски следуют прежним правилам; новая визуализация не является рекомендацией.
+
+## Дополнение v0.3: каталог еды
+
+К трём исходным позициям добавлены 48 демонстрационных продуктов/блюд в шести категориях. Есть фильтр категории, поиск по всему набору и порционная выдача по 12 строк с «Показать ещё». Значения условные для сценария; это не проверенная база питания. 12 фото-иллюстраций блюд не определяют КБЖУ; исторический снимок сохраняет оформление вместе с прежними значениями.
